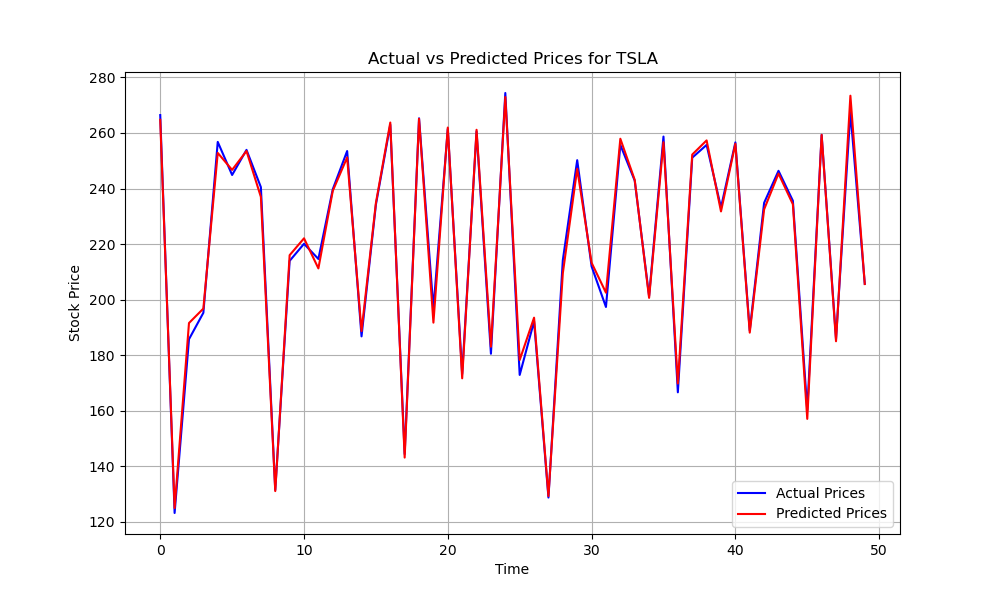
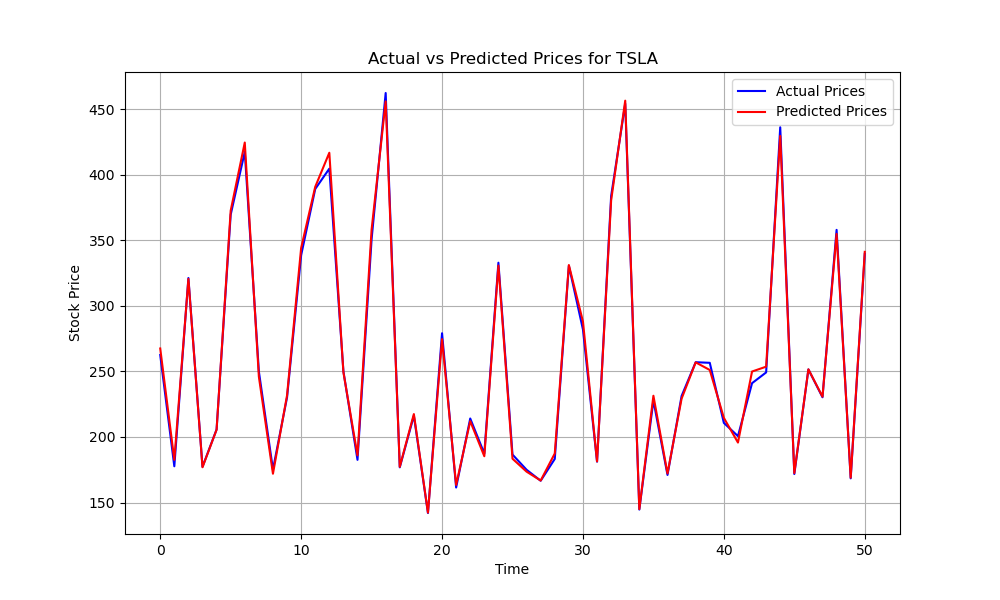
new

diff --git a/src/data_loader.py b/src/data_loader.py
@@ -1,34 +1,57 @@
 import pandas as pd
 import os
+import yfinance as yf
+
+def fetch_and_save_data(stock_symbol):
+    try:
+        print(f"🌐 Fetching data for {stock_symbol} from Yahoo Finance...")
+        stock_data = yf.download(stock_symbol, period="1y", interval="1d")
+
+        if stock_data.empty:
+            print(f"❗ Error: Unable to fetch data for {stock_symbol}. Check the symbol or try again.")
+            return None
+
+        # Reset the index to use 'Date' as a column
+        stock_data.reset_index(inplace=True)
+        stock_data.to_csv(f"data/{stock_symbol}.csv", index=False)
+        print(f"✅ Data for {stock_symbol} saved to data/{stock_symbol}.csv")
+    except Exception as e:
+        print(f"❗ Error while fetching data: {e}")
 
 def load_data(stock_symbol):
     file_path = f"data/{stock_symbol}.csv"
     
     # Check if file exists
     if not os.path.exists(file_path):
-        print(f"❗ Error: Data for {stock_symbol} not found in the data folder.")
-        return None
+        print(f"❗ Data for {stock_symbol} not found. Attempting to fetch data...")
+        fetch_and_save_data(stock_symbol)
+        
+        # Check again after fetching
+        if not os.path.exists(file_path):
+            print(f"❗ Failed to fetch or save data for {stock_symbol}.")
+            return None
     
-    print(f"📥 Fetching data for {stock_symbol}...")
+    print(f"📥 Loading data for {stock_symbol}...")
 
     try:
-        # Read CSV, skipping unwanted rows
-        df = pd.read_csv(file_path, skiprows=2)
+        # Read CSV
+        df = pd.read_csv(file_path)
 
-        # Ensure proper column names
-        df.columns = ['Date', 'Close', 'High', 'Low', 'Open', 'Volume']
-
-        # Convert Date to datetime
+        # Ensure Date is in correct format
         df['Date'] = pd.to_datetime(df['Date'], errors='coerce')
-
-        # Remove invalid or missing dates
         df = df.dropna(subset=['Date'])
 
-        # Convert numerical columns to float
+        # Ensure proper columns exist
+        required_columns = ['Date', 'Close', 'High', 'Low', 'Open', 'Volume']
+        missing_cols = [col for col in required_columns if col not in df.columns]
+        if missing_cols:
+            raise ValueError(f"❗ Missing columns in data: {missing_cols}")
+
+        # Convert columns to numeric
         for col in ['Close', 'High', 'Low', 'Open', 'Volume']:
             df[col] = pd.to_numeric(df[col], errors='coerce')
 
-        # Drop rows with any remaining missing values
+        # Drop rows with any missing values
         df = df.dropna()
 
         print(f"✅ Data for {stock_symbol} loaded successfully! Shape: {df.shape}")

diff --git a/src/train.py b/src/train.py
@@ -1,6 +1,7 @@
 import pandas as pd
 import joblib
 import numpy as np
+import os
 from sklearn.model_selection import train_test_split
 from sklearn.linear_model import LinearRegression
 from sklearn.metrics import mean_squared_error, r2_score
@@ -15,7 +16,7 @@ def train_model(stock_symbol):
     # Ensure necessary columns
     required_columns = ['Open', 'High', 'Low', 'Close', 'Volume']
     if not all(col in df.columns for col in required_columns):
-        raise ValueError("Missing required columns in the data")
+        raise ValueError("❗ Missing required columns in the data")
 
     # Features and Target
     X = df[['Open', 'High', 'Low', 'Volume']]
@@ -25,25 +26,31 @@ def train_model(stock_symbol):
     X_train, X_test, y_train, y_test = train_test_split(X, y, test_size=0.2, random_state=42)
 
     # Train Model
-    print("Training model...")
+    print("🛠 Training model...")
     model = LinearRegression()
     model.fit(X_train, y_train)
-    print("Training completed.")
+    print("✅ Training completed.")
 
-    # Save Model
-    joblib.dump(model, 'models/model.pkl')
-    print(f"Model saved to models/model.pkl")
+    # Ensure models directory exists
+    os.makedirs('models', exist_ok=True)
+
+    # Save Model with Stock Symbol
+    model_path = f'models/model_{stock_symbol}.pkl'
+    joblib.dump(model, model_path)
+    print(f"💾 Model saved to {model_path}")
 
     # Evaluate Model
+    print("📊 Evaluating model...")
     y_pred = model.predict(X_test)
     mse = mean_squared_error(y_test, y_pred)
     r2 = r2_score(y_test, y_pred)
-    print(f"Model Evaluation Results:\nMean Squared Error: {mse}\nR2 Score: {r2}")
+    print(f"📈 Model Evaluation Results:\n🔎 Mean Squared Error: {mse}\n📊 R2 Score: {r2}")
 
     # Visualize Predictions
+    print("🖼 Visualizing predictions...")
     visualize_predictions(y_test, y_pred, stock_symbol)
 
-    print("Process completed. Predictions visualized!")
+    print("🎉 Process completed. Predictions visualized!")
 
 if __name__ == "__main__":
     stock_symbol = input("Enter the stock symbol (e.g., AAPL, TSLA): ").upper()
